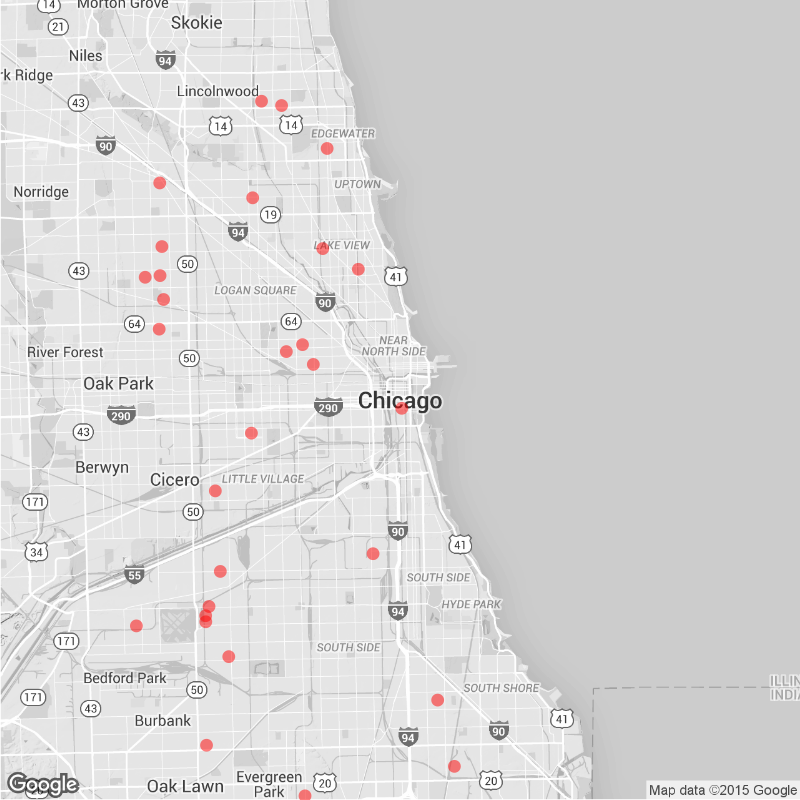
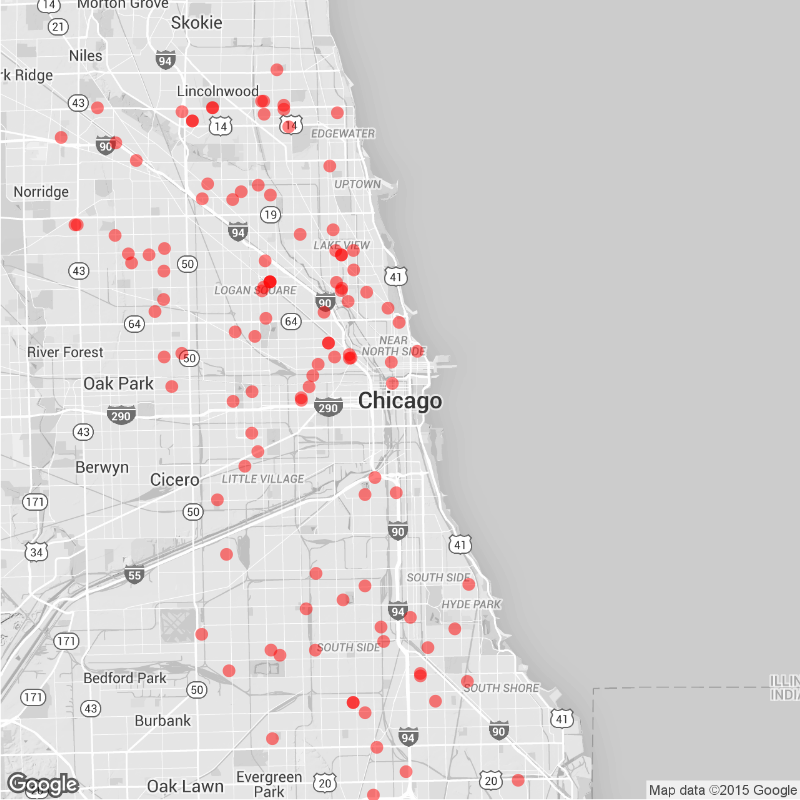
Daily Maps

diff --git a/daily.md b/daily.md
@@ -15,22 +15,22 @@ tags: Chicago NYC weekly daily rats
 
 ### Daily
 
-Yesterday (October 11), there were 30 calls to Chicago's 311 line about rats.
+Yesterday (October 12), there were 114 calls to Chicago's 311 line about rats.
 ![Chicago rat calls to 311 weekly map]({{ site.cityimages }}/daily/Chicago_Rat_Map_Daily.png)
 
 ### Weekly
-Between October 05 and October 11, there were 1019 calls to Chicago's 311 line about rats. The average number of weekly calls for this time of year is 725.
+Between October 06 and October 12, there were 921 calls to Chicago's 311 line about rats. The average number of weekly calls for this time of year is 725.
 ![Chicago rat calls to 311 weekly map]({{ site.cityimages }}/daily/Chicago_Rat_Map_Weekly.png)
 ***
 # New York City <a id="nyc"><a>
 
 ### Daily
 
-Yesterday (October 11), there were 0 calls to New York City's 311 line about rats.
+Yesterday (October 12), there were 0 calls to New York City's 311 line about rats.
 ![NYC rat calls to 311 weekly map]({{ site.cityimages }}/daily/NYC_Rat_Map_Daily.png)
 
 ### Weekly
-Between October 05 and October 11, there were 0 calls to New York City's 311 line about rats. The average number of weekly calls for this time of year is 235.
+Between October 06 and October 12, there were 0 calls to New York City's 311 line about rats. The average number of weekly calls for this time of year is 235.
 ![NYC rat calls to 311 weekly map]({{ site.cityimages }}/daily/NYC_Rat_Map_Weekly.png)
 
 Each red dot represents one call about a rat seen in that location. The dots are transparent, so multiple calls from one location will be seen as a solid dot. The usual caveats apply: more calls do not necessarily mean that there are more rats in that location than other parts of the city. A cluster of dots could indicate that one resident is unusually vocal about rodents in his or her neighborhood. Also, more densely populated neighborhoods tend to make more calls to 311.
